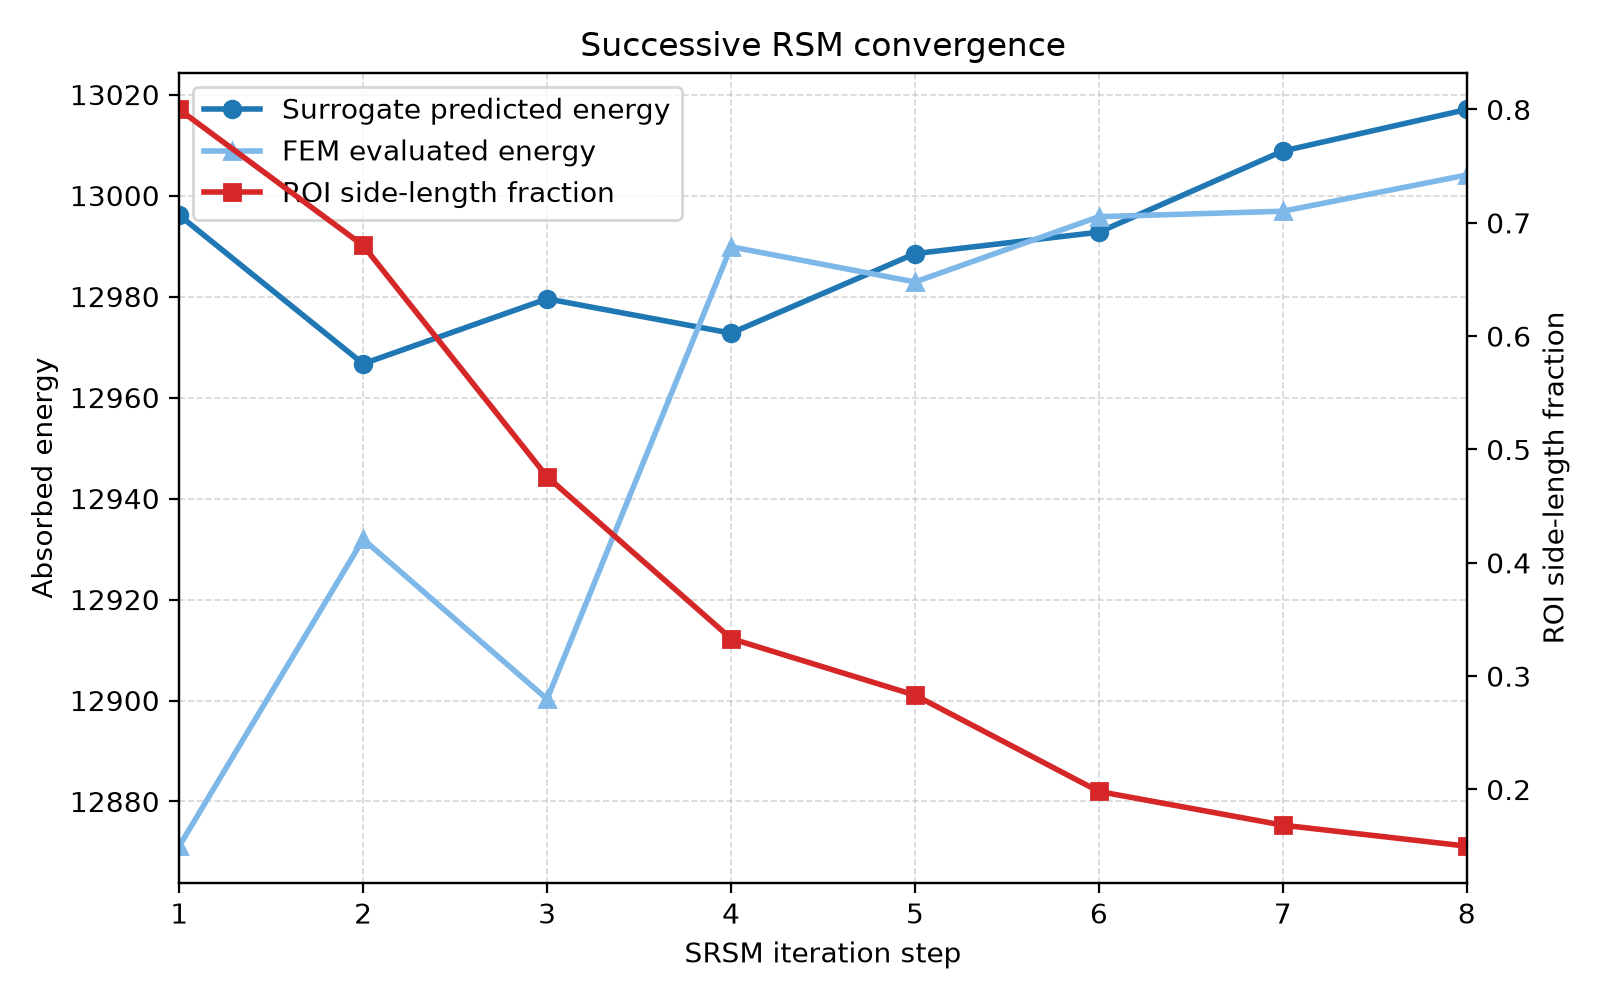
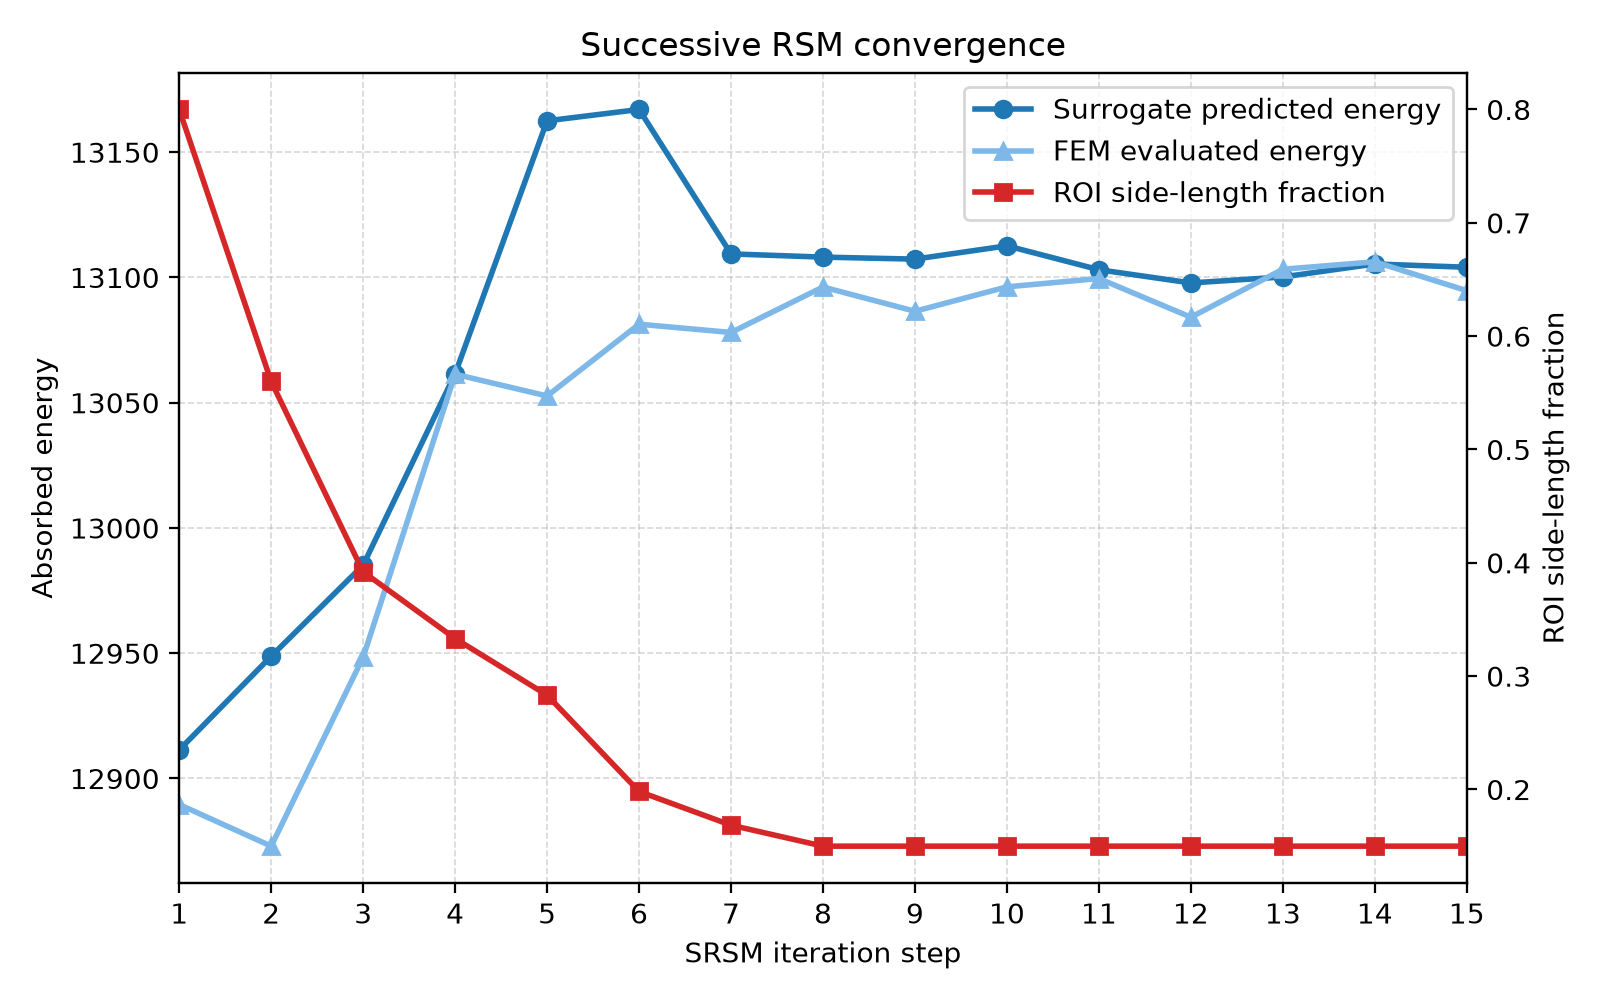
v1 improved

diff --git a/main.py b/main.py
@@ -7,6 +7,7 @@ import numpy as np
 import os
 import subprocess
 import scipy.stats.qmc as qmc
+import sys
 import time
 
 PLATE_SIZE = 60.0
@@ -41,6 +42,19 @@ OBJECTIVE_LOG_FIELDNAMES = [
     "srsm_subspace_fraction",
     "best_feasible_objective_so_far",
 ]
+
+class TeeStream:
+    def __init__(self, *streams):
+        self.streams = streams
+
+    def write(self, text):
+        for stream in self.streams:
+            stream.write(text)
+        return len(text)
+
+    def flush(self):
+        for stream in self.streams:
+            stream.flush()
 
 def getConfig():
     # The dsParameterBounds names need to match the NX parameter names in the part file as well as the journal file!
@@ -825,9 +839,31 @@ def parse_args(argv=None):
         default=os.path.join(os.getcwd(), "plots", "convergence.png"),
         help="Path for the convergence plot image.",
     )
+    parser.add_argument(
+        "--output-log",
+        default=os.path.join(os.getcwd(), "output.txt"),
+        help="Path for the command-line output log.",
+    )
     return parser.parse_args(argv)
 
-def main(argv=None):
+def run_with_output_log(args, run_function):
+    output_dir = os.path.dirname(args.output_log)
+    if output_dir:
+        os.makedirs(output_dir, exist_ok=True)
+
+    with open(args.output_log, "w", encoding="utf-8") as output_log:
+        original_stdout = sys.stdout
+        original_stderr = sys.stderr
+        sys.stdout = TeeStream(original_stdout, output_log)
+        sys.stderr = TeeStream(original_stderr, output_log)
+        try:
+            print(f"Writing command-line output to {args.output_log}")
+            return run_function()
+        finally:
+            sys.stdout = original_stdout
+            sys.stderr = original_stderr
+
+def run_optimizer(args):
     """
     Run a budgeted successive response surface optimization loop.
 
@@ -836,7 +872,6 @@ def main(argv=None):
     most promising predictions with FreeCAD, then moves and shrinks the next
     active region around the best feasible FEM result.
     """
-    args = parse_args(argv)
     if args.plot_only:
         save_convergence_plot(args.csv_path, args.plot_output)
         return
@@ -1129,6 +1164,10 @@ def main(argv=None):
         print(f"Best feasible objective: {best_feasible_objective_so_far}")
 
     save_convergence_plot(objective_log_path, args.plot_output)
+
+def main(argv=None):
+    args = parse_args(argv)
+    return run_with_output_log(args, lambda: run_optimizer(args))
 
 
 